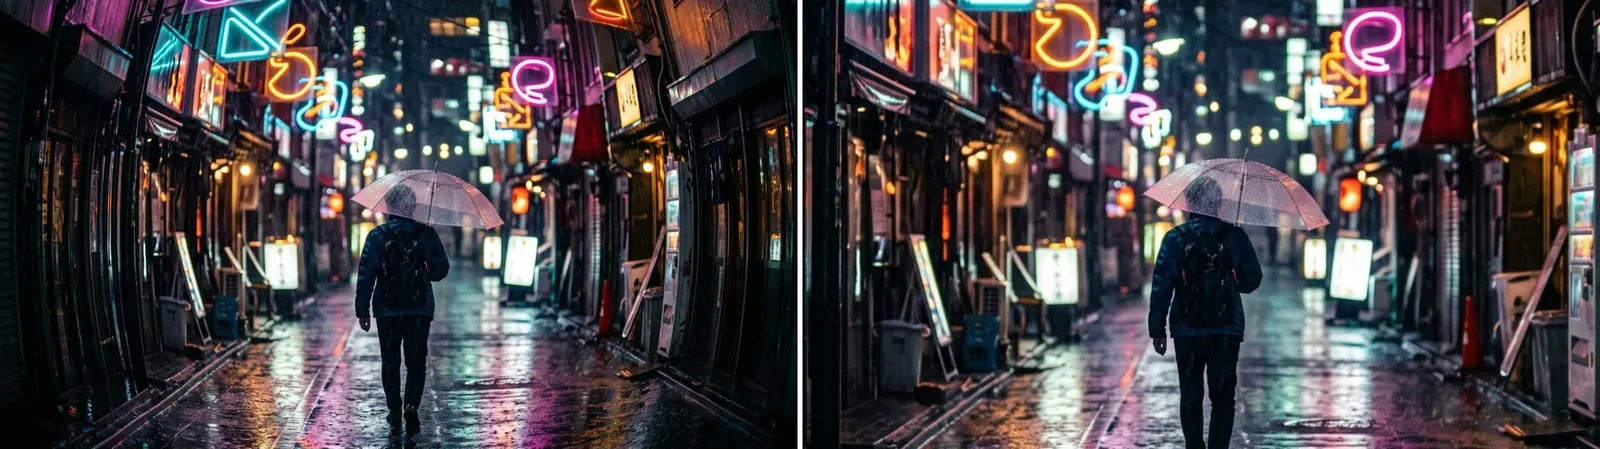
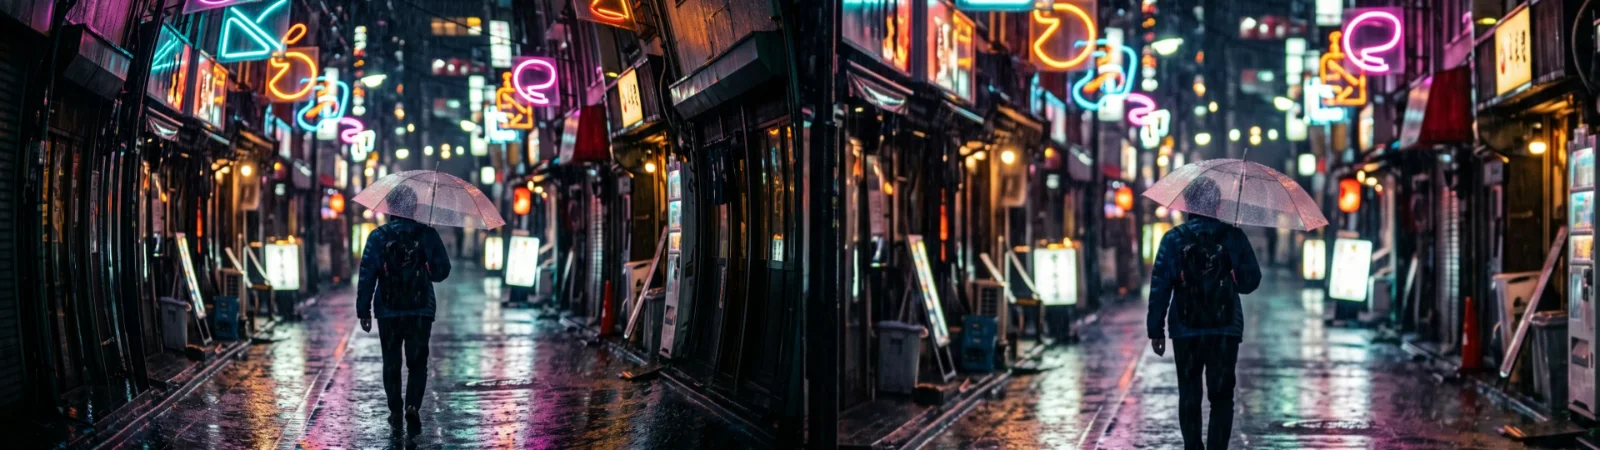
feat(lens-correction): four presets, Fit picks the scale alone, card rows on one line with short labels, and the page rewritten with compare, preset strip and inspector recipes (lensCorrection, LensCorrectionControls, effectDocsCatalog, docsMediaRecipes tests)
Claude-Session: https://claude.ai/code/session_01SPCZUmow7FhgFsrvju87Zb

diff --git a/src/effects/distort/lens-correction/index.ts b/src/effects/distort/lens-correction/index.ts
@@ -6,21 +6,21 @@ import { LENS_NO_FOLD, lensFoldRadius, lensFullImageScale } from './lensFrameFit
 const number = (label: string, value: number, min: number, max: number, step: number, group: string): EffectParam =>
   ({ type: 'number', label, default: value, min, max, step, animatable: true, group });
 export const LENS_CORRECTION_PARAMS: Record<string, EffectParam> = {
-  profile: { type: 'select', label: 'Lens Profile', default: 'manual', options: LENS_PROFILE_OPTIONS, group: 'profile' },
+  profile: { type: 'select', label: 'Lens', default: 'manual', options: LENS_PROFILE_OPTIONS, group: 'profile' },
   focalLength: number('Focal Length', 24, 24, 105, 0.1, 'profile'),
   aperture: number('Aperture', 4, 4, 22, 0.1, 'profile'),
   focusDistance: number('Focus Distance', 1000, 0.45, 1000, 0.05, 'profile'),
   cropFactor: number('Sensor Crop', 1, 1, 2, 0.001, 'profile'),
   sourceAspect: { type: 'number', label: 'Source Aspect', default: 0, min: 0, max: 100, step: 0.0001, hidden: true, animatable: false },
-  distortion: number('Remove Distortion', 0, -100, 100, 0.1, 'geometry'),
+  distortion: number('Distortion', 0, -100, 100, 0.1, 'geometry'),
   fineDistortion: number('Fine Distortion', 0, -50, 50, 0.1, 'geometry'),
   scale: number('Scale', 100, 50, 200, 0.1, 'geometry'),
   fitFullImage: { type: 'boolean', label: 'Fit Entire Photo', default: false, animatable: false, group: 'geometry' },
-  centerX: number('Optical Center X', 0.5, 0, 1, 0.001, 'geometry'),
-  centerY: number('Optical Center Y', 0.5, 0, 1, 0.001, 'geometry'),
-  redFringe: number('Red/Cyan Fringe', 0, -20, 20, 0.1, 'chromatic aberration'),
-  blueFringe: number('Blue/Yellow Fringe', 0, -20, 20, 0.1, 'chromatic aberration'),
-  vignette: number('Vignette Amount', 0, -100, 100, 0.1, 'vignette'),
+  centerX: number('Center X', 0.5, 0, 1, 0.001, 'geometry'),
+  centerY: number('Center Y', 0.5, 0, 1, 0.001, 'geometry'),
+  redFringe: number('Red/Cyan', 0, -20, 20, 0.1, 'chromatic aberration'),
+  blueFringe: number('Blue/Yellow', 0, -20, 20, 0.1, 'chromatic aberration'),
+  vignette: number('Amount', 0, -100, 100, 0.1, 'vignette'),
   vignetteEnabled: { type: 'boolean', label: 'Vignette Correction', default: true, animatable: false, group: 'vignette' },
   midpoint: number('Midpoint', 50, 0, 100, 0.1, 'vignette'),
 };
@@ -45,7 +45,8 @@ function lensGeometry(params: LensParams, width: number, height: number) {
   const aspect = p.sourceAspect || Math.max(1,width)/Math.max(1,height);
   const geometry = { aspect, centerX: p.centerX, centerY: p.centerY, cropFactor: p.cropFactor,
     distortion: p.distortion / 100, fineDistortion: p.fineDistortion / 100, profile };
-  const scale = params.fitFullImage === true ? Math.min(p.scale/100, lensFullImageScale(geometry)) : p.scale/100;
+  // Fit picks the scale itself (the card hides Scale meanwhile), so a hidden Scale never shrinks the picture further.
+  const scale = params.fitFullImage === true ? lensFullImageScale(geometry) : p.scale/100;
   // Largest output radius in the frame: the farthest corner from the optical centre, divided by scale.
   const radiusScale = 2 / Math.hypot(aspect, 1);
   const corner = Math.max(...[[0, 0], [1, 0], [0, 1], [1, 1]].map(([u, v]) =>
@@ -65,7 +66,7 @@ export function lensCorrectionWarnings(params: LensParams, width = 1920, height 
     }
   }
   const { fold } = lensGeometry(params, width, height);
-  if (fold < LENS_NO_FOLD) warnings.push('This much barrel correction would fold the outer picture back on itself, so the area beyond the fold stays transparent. Use less Remove Distortion or Fine Distortion, or raise Scale to crop it.');
+  if (fold < LENS_NO_FOLD) warnings.push('This much barrel correction would fold the outer picture back on itself, so the area beyond the fold stays transparent. Use less Distortion or Fine Distortion, or raise Scale to crop it.');
   return warnings;
 }
 
@@ -73,6 +74,12 @@ export const lensCorrection: EffectDefinition = {
   id: 'lens-correction', name: 'Lens Correction', category: 'distort',
   shader, entryPoint: 'lensCorrectionFragment', uniformSize: 96,
   params: LENS_CORRECTION_PARAMS,
+  presets: [
+    { id: 'wide-angle', name: 'Wide Angle', params: { distortion: -14 } },
+    { id: 'action-cam', name: 'Action Cam', params: { distortion: -28, scale: 120 } },
+    { id: 'whole-photo', name: 'Whole Photo', params: { distortion: -14, fitFullImage: true } },
+    { id: 'even-corners', name: 'Even Corners', params: { vignette: 40, midpoint: 30 } },
+  ],
   paramWarnings: (params, width, height) => lensCorrectionWarnings(params, width, height),
   packUniforms: (params, width, height) => {
     const { p, vignetteEnabled, profile, aspect, scale, fold } = lensGeometry(params, width, height);

diff --git a/src/components/panels/properties/LensCorrectionControls.tsx b/src/components/panels/properties/LensCorrectionControls.tsx
@@ -1,4 +1,4 @@
-import { useEffect, useRef, useState } from 'react';
+import { useEffect, useRef, useState, type PointerEvent } from 'react';
 import type { EffectControlProps } from '../../../effects/types';
 import { LENS_CORRECTION_PARAMS, normalizeLensCorrection } from '../../../effects/distort/lens-correction';
 import { CANON_24_105_PROFILE, LENS_PROFILE_OPTIONS } from '../../../effects/distort/lens-correction/lensProfile';
@@ -12,16 +12,17 @@ import { EffectKeyframeToggle } from './shared';
 
 export function LensCorrectionControls({ params, onChange, clipId, effectInstanceId }: EffectControlProps) {
   const file = useTimelineStore(state => state.clips.find(clip => clip.id === clipId)?.file);
-  const [metadata, setMetadata] = useState<RawPhotoMetadata>();
-  const [metadataError, setMetadataError] = useState(false);
+  // Metadata belongs to the file it was read from, so a new file shows nothing until its own read ends.
+  const [loaded, setLoaded] = useState<{ file: typeof file; metadata?: RawPhotoMetadata; error?: boolean }>();
+  const metadata = loaded?.file === file ? loaded?.metadata : undefined;
+  const metadataError = loaded?.file === file && loaded?.error === true;
   const latest = useRef({ params, onChange });
-  latest.current = { params, onChange };
+  useEffect(() => { latest.current = { params, onChange }; });
   useEffect(() => {
     let current = true;
-    setMetadata(undefined); setMetadataError(false);
     if (file && isRawImageFile(file)) void getRawPhotoMetadata(file).then(value => {
-      if (current) setMetadata(value);
-    }).catch(() => { if (current) setMetadataError(true); });
+      if (current) setLoaded({ file, metadata: value });
+    }).catch(() => { if (current) setLoaded({ file, error: true }); });
     return () => { current = false; };
   }, [file]);
   const p = normalizeLensCorrection(params);
@@ -48,7 +49,12 @@ export function LensCorrectionControls({ params, onChange, clipId, effectInstanc
       onChange={value => change(key, value)}
       keyframeToggle={clipId && effectInstanceId && def.animatable
         ? <EffectKeyframeToggle clipId={clipId} effectId={effectInstanceId} paramName={key} value={p[key]} /> : undefined} />);
-  return <div className="effects-tab transform-tab-compact">
+  // Pointer activation must not leave a focus ring on selects or buttons (keyboard focus stays visible).
+  const blurPointerFocus = (event: PointerEvent) => {
+    if (event.target instanceof Element) event.target.closest<HTMLElement>('button, select')?.blur();
+  };
+  // The shared effect-section layout (as Chroma Key): rows keep label, slider and value on one line in the card.
+  return <div className="effects-tab effect-sections" onPointerUp={blurPointerFocus}>
     <ResolveInspectorSection title="Lens profile" indicator="none">
       <ResolveInspectorRow label="Lens"><InspectorSelect ariaLabel="Lens profile" value={profile}
         options={LENS_PROFILE_OPTIONS} onChange={selectProfile} /></ResolveInspectorRow>

diff --git a/tests/unit/lensCorrection.test.ts b/tests/unit/lensCorrection.test.ts
@@ -13,6 +13,22 @@ describe('Lens Correction', () => {
     expect(lensCorrection.packUniforms({fitFullImage:true},6000,4000)![2]).toBe(1);
     expect(lensCorrection.packUniforms({distortion:-10,fitFullImage:false},6000,4000)![2]).toBe(1);
   });
+  it('lets Fit Entire Photo pick the scale alone: a Scale kept from Original size (its row is hidden) never shrinks the fit', () => {
+    const fit=lensCorrection.packUniforms({distortion:-10,scale:125,fitFullImage:true},6000,4000)![2];
+    expect(lensCorrection.packUniforms({distortion:-10,scale:60,fitFullImage:true},6000,4000)![2]).toBeCloseTo(fit,6);
+    expect(lensCorrection.packUniforms({scale:50,fitFullImage:true},6000,4000)![2]).toBe(1);
+  });
+  it('declares presets that set only its own controls, within range, without folding the picture', () => {
+    expect(lensCorrection.presets!.map(preset => preset.name)).toEqual(['Wide Angle', 'Action Cam', 'Whole Photo', 'Even Corners']);
+    for (const preset of lensCorrection.presets!) {
+      for (const [key, value] of Object.entries(preset.params)) {
+        const definition = lensCorrection.params[key];
+        expect(definition && !definition.hidden, `${preset.name}: ${key}`).toBe(true);
+        if (typeof value === 'number') expect(value).toBe(Math.min(definition.max!, Math.max(definition.min!, value)));
+      }
+      expect(lensCorrectionWarnings(preset.params), preset.name).toEqual([]);
+    }
+  });
   it.each([
     [24,1.5,.5,.5,1], [105,2/3,.37,.61,1], [35,1.5,.25,.75,1.6],
   ])('keeps the full corrected source perimeter visible at %s mm with offset optical centers', (focal,aspect,centerX,centerY,cropFactor) => {

diff --git a/src/effects/distort/lens-correction/lensFrameFit.ts b/src/effects/distort/lens-correction/lensFrameFit.ts
@@ -18,7 +18,7 @@ const FOLD_SCAN_STEPS = 1024;
 
 /**
  * First output radius where the correction stops moving outward: strong barrel removal
- * (Remove Distortion below about -33, Fine Distortion below -20, or a profile combined with
+ * (Distortion below about -33, Fine Distortion below -20, or a profile combined with
  * them) maps the outer ring back inside and would mirror the picture. Pixels beyond it have
  * no valid source; the shader leaves them transparent. LENS_NO_FOLD when none up to `maxRadius`.
  */

diff --git a/docs/Features/effects/lens-correction.md b/docs/Features/effects/lens-correction.md
@@ -1,75 +1,128 @@
 # Lens Correction
 
-Repairs what a camera lens does to a photo or clip: bowed lines, coloured fringes at contrast edges
-and dark corners.
+Repairs what a camera lens does to a picture: bowed lines, coloured fringes along hard edges and dark corners.
 
 Group: [Lens & Distort](../Effects-Distort.md) · [How to add an effect](../Effects.md#add-an-effect)
 
-<figure class="docs-shot">
+<figure class="docs-shot docs-compare docs-shot--float-left">
 
-![The night street twice: on the left with strong simulated wide-angle distortion, the house fronts at the left and right bowing outward; on the right, corrected and slightly enlarged, the house edges straight and upright](../assets/effects/lens-correction.webp)
+![The rainy night street as a strong wide-angle lens bends it, original left and with Lens Correction right: on the left the shop fronts at both edges bow outward like a barrel; on the right they stand straight and upright, the street runs straight to the vanishing point and the picture is slightly enlarged](../assets/effects/lens-correction.webp)
 
-<figcaption>Left: simulated barrel distortion. Right: Remove Distortion −28, Scale 120.</figcaption>
+<figcaption>Left: a shot from a strong wide-angle lens. Right: Distortion −28, Scale 120 (the Action Cam preset).</figcaption>
 </figure>
 
-**Use it for:** straight walls and horizons in wide-angle photos · removing colour fringes along
-contrast edges · evening out dark corners.
+**Use it for:** straight walls, door frames and horizons in wide-angle or action-cam shots · a photo of the set that has to line up with its real edges in a projection · colour fringes and dark corners from a cheap or very wide lens.
 
-- **Lens Profile** – the measured Canon EF 24–105mm f/4L IS USM, or Manual (the default). With the
-  profile, Focal Length and Aperture come from the photo's metadata when a Canon raw file (CR2)
-  carries them.
-- **Remove Distortion** – negative values straighten lines that bow outward (wide angle), positive
-  values lines that bow inward.
-- **Red/Cyan Fringe and Blue/Yellow Fringe** – remove coloured edges.
-- **Vignette Amount** – lifts dark corners (negative darkens them).
+- **Distortion** – straightens lines that bow: below 0 for a wide lens, above 0 for a long one.
+- **Scale** – zooms in or out after the correction.
+- **Framing** – keeps the frame size or shows the whole photo.
+- **Amount** (Vignette) – lifts dark corners.
 
-**Tip:** very strong correction leaves empty corners. Raise Scale to crop them, turn on **Fit Entire
-Photo** to keep the whole photo, or fill them on still photos with [AI Edge Fill](./ai-edge-fill.md).
+**Tip:** put Lens Correction first in the effect stack, before [Guided Perspective](./guided-perspective.md) and every look. Lines that still lean after it come from the camera's tilt, not from the lens: Guided Perspective straightens those.
+
+<div class="docs-float-end"></div>
+
+## Presets
+
+<figure class="docs-shot docs-shot--detail">
+
+![The bent night street four times, labelled: Wide Angle with the shop fronts half straightened, Action Cam with them straight and upright and the picture slightly enlarged, Whole Photo with the corrected street shrunk into a cushion shape whose empty edges show blue, Even Corners with the street still bent and its dark corners a little brighter](../assets/effects/presets/lens-correction.webp)
+
+<figcaption>The four presets on the shot from a strong wide-angle lens. Blue: the empty edges Whole Photo leaves.</figcaption>
+</figure>
+
+Pick one in the **Preset** row of the effect card. It sets all controls at once, in one undo step, and the row then shows its name until you change something. A preset sets the lens to Manual; a control with keyframes keeps them, and the card says so.
+
+**Wide Angle** – Distortion −14: the gentle bow of a 16–24 mm lens or a phone's wide camera. The frame stays full, the outer edge is cropped a little.
+
+**Action Cam** – Distortion −28 and Scale 120: the strong barrel of an action camera or a very wide zoom. Scale enlarges the picture into the part that comes out straight.
+
+**Whole Photo** – Distortion −14 with Framing on Fit entire photo: the same correction as Wide Angle, but nothing is cropped. The picture shrinks into a cushion shape with empty, transparent edges; fill them with [AI Edge Fill](./ai-edge-fill.md) or a background track.
+
+**Even Corners** – Amount 40, Midpoint 30: lifts dark lens corners without touching the geometry. Good for photos of a white cyc or a projection surface that should look evenly lit.
 
 ## Controls
 
-<!-- generated:controls start -->
-| Control | Range | Default |
-|---|---|---|
-| **Profile** | | |
-| Lens Profile | Manual, Canon EF 24-105mm f/4L IS USM | Manual |
-| Focal Length | 24 to 105 | 24 |
-| Aperture | 4 to 22 | 4 |
-| Focus Distance | 0.45 to 1000 | 1000 |
-| Sensor Crop | 1 to 2 | 1 |
-| **Geometry** | | |
-| Remove Distortion | −100 to 100 | 0 |
-| Fine Distortion | −50 to 50 | 0 |
-| Scale | 50 to 200 | 100 |
-| Fit Entire Photo | on or off | off |
-| Optical Center X | 0 to 1 | 0.5 |
-| Optical Center Y | 0 to 1 | 0.5 |
-| **Chromatic aberration** | | |
-| Red/Cyan Fringe | −20 to 20 | 0 |
-| Blue/Yellow Fringe | −20 to 20 | 0 |
-| **Vignette** | | |
-| Vignette Amount | −100 to 100 | 0 |
-| Vignette Correction | on or off | on |
-| Midpoint | 0 to 100 | 50 |
-<!-- generated:controls end -->
+<figure class="docs-shot">
+
+<div class="docs-shot-stage">
+
+![Properties, Effects with a Lens Correction card: the Preset menu showing Action Cam, the Lens menu on Manual, the Geometry section with Framing on Original size, Distortion −28, Fine Distortion 0, Scale 120 and Center X and Y 0.5, the folded Chromatic aberration section and the Vignette section with its switch, Amount and Midpoint, beside a strip of the preview with the straightened night street](../assets/effects/editor/lens-correction-inspector.webp)
+
+<svg class="docs-shot-overlay" viewBox="0 0 1017 921" aria-hidden="true" focusable="false">
+<defs><marker id="lens-correction-inspector-arrow" viewBox="0 0 10 10" refX="8" refY="5" markerWidth="5" markerHeight="5" orient="auto-start-reverse"><path d="M 0 0 L 10 5 L 0 10 Z" fill="#ffd54a" /></marker></defs>
+<path class="docs-shot-arrow" d="M565 282 L649 282" marker-end="url(#lens-correction-inspector-arrow)" />
+<circle class="docs-shot-number" cx="565" cy="282" r="18" /><text x="565" y="282" class="docs-shot-number-text">1</text>
+<path class="docs-shot-arrow" d="M588 376 L672 376" marker-end="url(#lens-correction-inspector-arrow)" />
+<circle class="docs-shot-number" cx="588" cy="376" r="18" /><text x="588" y="376" class="docs-shot-number-text">2</text>
+<path class="docs-shot-arrow" d="M562 480 L646 480" marker-end="url(#lens-correction-inspector-arrow)" />
+<circle class="docs-shot-number" cx="562" cy="480" r="18" /><text x="562" y="480" class="docs-shot-number-text">3</text>
+<path class="docs-shot-arrow" d="M486 517 L636 517" marker-end="url(#lens-correction-inspector-arrow)" />
+<circle class="docs-shot-number" cx="486" cy="517" r="18" /><text x="486" y="517" class="docs-shot-number-text">4</text>
+<path class="docs-shot-arrow" d="M582 593 L666 593" marker-end="url(#lens-correction-inspector-arrow)" />
+<circle class="docs-shot-number" cx="582" cy="593" r="18" /><text x="582" y="593" class="docs-shot-number-text">5</text>
+</svg>
+</div>
+
+<figcaption>Lens Correction with the Action Cam preset. 1 — Preset: pick a starting point. 2 — Lens: a measured lens or Manual. 3 — Framing: keep the size or show the whole photo. 4 — Distortion: straightens bowed lines. 5 — Scale: zooms in or out.</figcaption>
+</figure>
+
+**Preset** – a starting point for the whole card; see [Presets](#presets).
+
+Every number can be keyframed. Work on a frame with long straight lines (a door frame, the edge of a stage, a horizon) and watch those lines while you drag.
+
+### Lens profile
+
+**Lens** – a measured lens or Manual. Manual leaves the picture alone until you set the controls below. **Canon EF 24-105mm f/4L IS USM** (the original EF lens, not the II or RF versions) applies measured corrections for its distortion, colour fringes and dark corners; on a Canon raw photo (CR2) it reads the focal length and aperture from the file, and the card shows the lens it found. The manual controls add to the profile. Manual, Canon EF 24-105mm f/4L IS USM, default Manual.
+
+The next four rows appear only with a measured lens.
+
+**Focal Length** – the zoom setting the picture was taken at. The profile's distortion changes a lot along the zoom: barrel at 24 mm, almost none around 40 mm, a slight inward bow at 105 mm. 24 to 105 mm, default 24 mm.
+
+**Aperture** – the f-number the picture was taken at. It changes only the dark corners: they are darkest wide open at f/4 and get lighter as the lens is stopped down. f/4 to f/22, default f/4.
+
+**Focus Distance** – how far away the camera was focused, in metres. It also changes only the dark corners, and only a little; leave it at 1000 m (as good as infinity) when you do not know it. 0.45 to 1000 m, default 1000 m.
+
+**Sensor Crop** – how much smaller the camera's sensor is than full frame: 1 for a full-frame camera, 1.6 for a Canon APS-C body. A smaller sensor sees only the middle of the lens, so the correction is weaker. 1× to 2×, default 1×.
+
+### Geometry
+
+**Framing** – what happens to the edges. **Original size** keeps the frame as it is; correcting a barrel pulls the outer picture inward, so a little of the edge is cropped. **Fit entire photo** shrinks the corrected picture until every pixel of the original is visible again and leaves the free edges transparent; the Scale row is hidden meanwhile, since the fit sets the size. It shows the whole photo up to about Distortion −14; beyond that the fold below cuts off the outer corners, and the card says so. Original size or Fit entire photo, default Original size.
+
+**Distortion** – straightens lines that bow. Below 0 pulls the outer picture inward: lines that bulge outward like a barrel (wide lenses, action cameras) become straight. Above 0 pushes it outward: lines that pinch inward (long lenses) become straight, and empty edges appear that Scale can crop. −5 to −15 fixes a typical wide lens, −25 to −30 an action camera. Below about −33 the correction folds the outer picture back on itself: the area beyond the fold stays transparent, and the card says so. −100 to 100, default 0.
+
+**Fine Distortion** – the same kind of correction, but it acts mostly at the outer edge and leaves the middle alone. Use it after Distortion when the middle is straight and the edges still bend, the "moustache" bow of some wide lenses. Below about −20 it folds the edge like Distortion. −50 to 50, default 0.
+
+**Scale** – zooms the corrected picture in or out around the lens centre, in percent. Above 100 crops empty or still bent edges, below 100 shows more and leaves transparent edges. 50 to 200, default 100.
+
+**Center X** – where the middle of the lens lies across the frame, as a share of the width (0.5 is the middle). Move it for a photo that was cropped off-centre or shot with a shifted lens, until the bow is the same on both sides. 0 to 1, default 0.5.
+
+**Center Y** – the same from top to bottom (0 is the top edge). 0 to 1, default 0.5.
+
+### Chromatic aberration
+
+**Red/Cyan** – removes red or cyan edges along hard contrast, which grow towards the corners. It enlarges or shrinks the red picture a little around the lens centre; try one direction, and if the fringe gets wider, go the other way. 1–3 fixes most lenses, 20 moves red by about 2 % of the distance to the centre (about 20 px in the corners of an HD frame). −20 to 20, default 0.
+
+**Blue/Yellow** – the same for blue or yellow edges, with the blue picture. −20 to 20, default 0.
+
+### Vignette
+
+**Vignette Correction** – the switch in the **Vignette** header. Off turns off both the measured corner correction of a lens profile and Amount, and keeps their values for when you switch it on again. Distortion and fringe correction go on working. On or off, default on.
+
+**Amount** – brightens or darkens towards the corners. Above 0 lifts dark lens corners, below 0 adds a dark vignette. 100 makes the corners two stops (4×) brighter, which already burns out a bright sky; 20–50 is typical. −100 to 100, default 0.
+
+**Midpoint** – where the brightening starts, from the middle (0) to the corners (100). Low values spread it over the whole frame, high values keep it to the very corners; at 100 Amount has almost nothing left to act on. 0 to 100, default 50.
 
 ## Node setup
 
-Lens Correction is a fixed shader with its own controls: it has no node graph to open. Put it first
-in the effect stack, before [Guided Perspective](./guided-perspective.md) and other effects.
+Lens Correction is one fixed shader with its own card: it has no node graph to open. For every pixel of the result it works out how far the pixel lies from the lens centre, looks up where that point lay in the bent picture (the measured profile and Distortion, Fine Distortion and Scale), reads the red and the blue picture a little further in or out (the fringe controls), and brightens it towards the corners (Vignette).
 
 ## Technical details
 
-- **Profile.** The profile uses measured Lensfun calibrations for distortion, colour fringes and
-  vignetting, interpolated across focal length, aperture and focus distance. Sensor Crop is 1 for
-  full-frame cameras; use 1.6 for Canon APS-C. Manual adjustments add to the profile.
-- **Empty borders.** Areas the corrected picture no longer covers are transparent. Barrel correction
-  strong enough to fold the picture back on itself stops at the fold: pixels beyond it stay
-  transparent with a one-pixel soft edge, and the inspector and tool results say so.
-- **Edges.** The fringe channels repeat the border pixel, so no coloured line runs along the frame,
-  and the frame edge is smoothed. Cut-outs in the source are read like any layer transform.
-- **Vignette Correction** switches off the profile vignetting and Vignette Amount together and keeps
-  their settings.
+- **Units.** Distortion and Fine Distortion are coefficients of r² and r⁴ in percent, where r is the distance from the lens centre and 1 the distance of the frame corner. The fringe controls scale the red or blue channel by 0.1 % per step. Amount 100 brightens the corner by two stops.
+- **Profile.** The measured lens uses Lensfun calibrations (PTLens distortion, poly3 lateral fringes, PA vignetting), interpolated across focal length, aperture and focus distance; values outside the calibration use its nearest end. The vignetting correction acts on linear light.
+- **Empty edges.** Areas the corrected picture no longer covers are transparent. A correction strong enough to fold the picture back on itself stops at the fold, with a one-pixel soft edge; the card and the tool results say so.
+- **Edges.** The fringe channels repeat the border pixel, so no coloured line runs along the frame. Cut-outs in the source keep their transparency.
+- **Saved projects.** Projects keep their values. With Fit entire photo the fit alone sets the size: a Scale kept from Original size, whose row is hidden, does not shrink the picture.
 - Corrections are saved with the effect and applied in the export.
-
-More: [Effect system: Lens Correction](../Effect-System.md#lens-correction).
+- **More:** [Effect system: Lens Correction](../Effect-System.md#lens-correction) · [Guided Perspective](./guided-perspective.md) · [AI Edge Fill](./ai-edge-fill.md).

diff --git a/docs/Features/Effect-System.md b/docs/Features/Effect-System.md
@@ -2450,19 +2450,19 @@ Camera Raw/LCP compatibility or a claim of matching Photoshop's output. Profile
 selection and numeric settings persist in project data and participate in undo;
 numeric controls support keyframes. Manual adjustments below are added on top.
 
-- **Geometry:** Remove Distortion controls radial barrel/pincushion correction;
+- **Geometry:** Distortion controls radial barrel/pincushion correction;
   negative values sample inward to correct barrel distortion, positive values
   correct pincushion distortion. Fine Distortion adds a fourth-order adjustment.
-  Scale zooms to crop uncovered borders; Optical Center X/Y moves the lens center.
-- **Chromatic aberration:** Red/Cyan Fringe and Blue/Yellow Fringe independently
+  Scale zooms to crop uncovered borders; Center X/Y moves the lens center.
+- **Chromatic aberration:** Red/Cyan and Blue/Yellow independently
   scale the red and blue channels around the optical center.
 - **Vignette:** Positive Amount lifts dark corners, negative Amount darkens them;
   Midpoint controls where the falloff starts.
 
 The default is an identity transform. Uncovered borders are transparent, and
 corrections are nondestructive, saved with the effect, and applied during export.
-Barrel correction strong enough to fold the outer picture back on itself (Remove
-Distortion below about −33, Fine Distortion below about −20, or less together with
+Barrel correction strong enough to fold the outer picture back on itself
+(Distortion below about −33, Fine Distortion below about −20, or less together with
 a profile) stops at the fold: pixels beyond it stay transparent, and the inspector
 and tool results say so. The fringe channels repeat the border pixel instead of
 turning black, so no coloured line runs along the frame.
@@ -2471,15 +2471,16 @@ not included yet. Calibration provenance and its CC BY-SA 3.0 license are listed
 in [Third-party notices](../../THIRD_PARTY_NOTICES.md#lensfun-lens-calibration-data).
 
 The **Vignette** section of Lens Correction has its own enable switch. Bypassing
-it disables both calibrated profile vignetting and manual Vignette Amount while
-retaining their settings. Distortion and chromatic-aberration correction continue
+it disables both calibrated profile vignetting and the manual Amount while
+retaining their settings (the switch is the parameter Vignette Correction, `vignetteEnabled`). Distortion and chromatic-aberration correction continue
 unchanged. This applies equally to Preview, guide photos, AI Edge Fill captures and export.
 
 Under **Geometry → Framing**, **Fit entire photo** automatically fits the corrected
 source perimeter into the image texture instead of cropping it. Free areas remain
 transparent (black against an opaque viewer/export background), and the composition
-dimensions stay unchanged. The existing manual Scale setting is retained for
-**Original size**; automatic fitting caps it so increasing Scale cannot crop the photo.
+dimensions stay unchanged. The manual Scale setting is kept for **Original size**;
+**Fit entire photo** sets the scale itself and hides the Scale row, so a Scale kept from
+**Original size** never shrinks the fitted picture.
 The fit follows distortion, focal length, sensor crop and optical center adjustments.
 
 ### Guided Perspective
